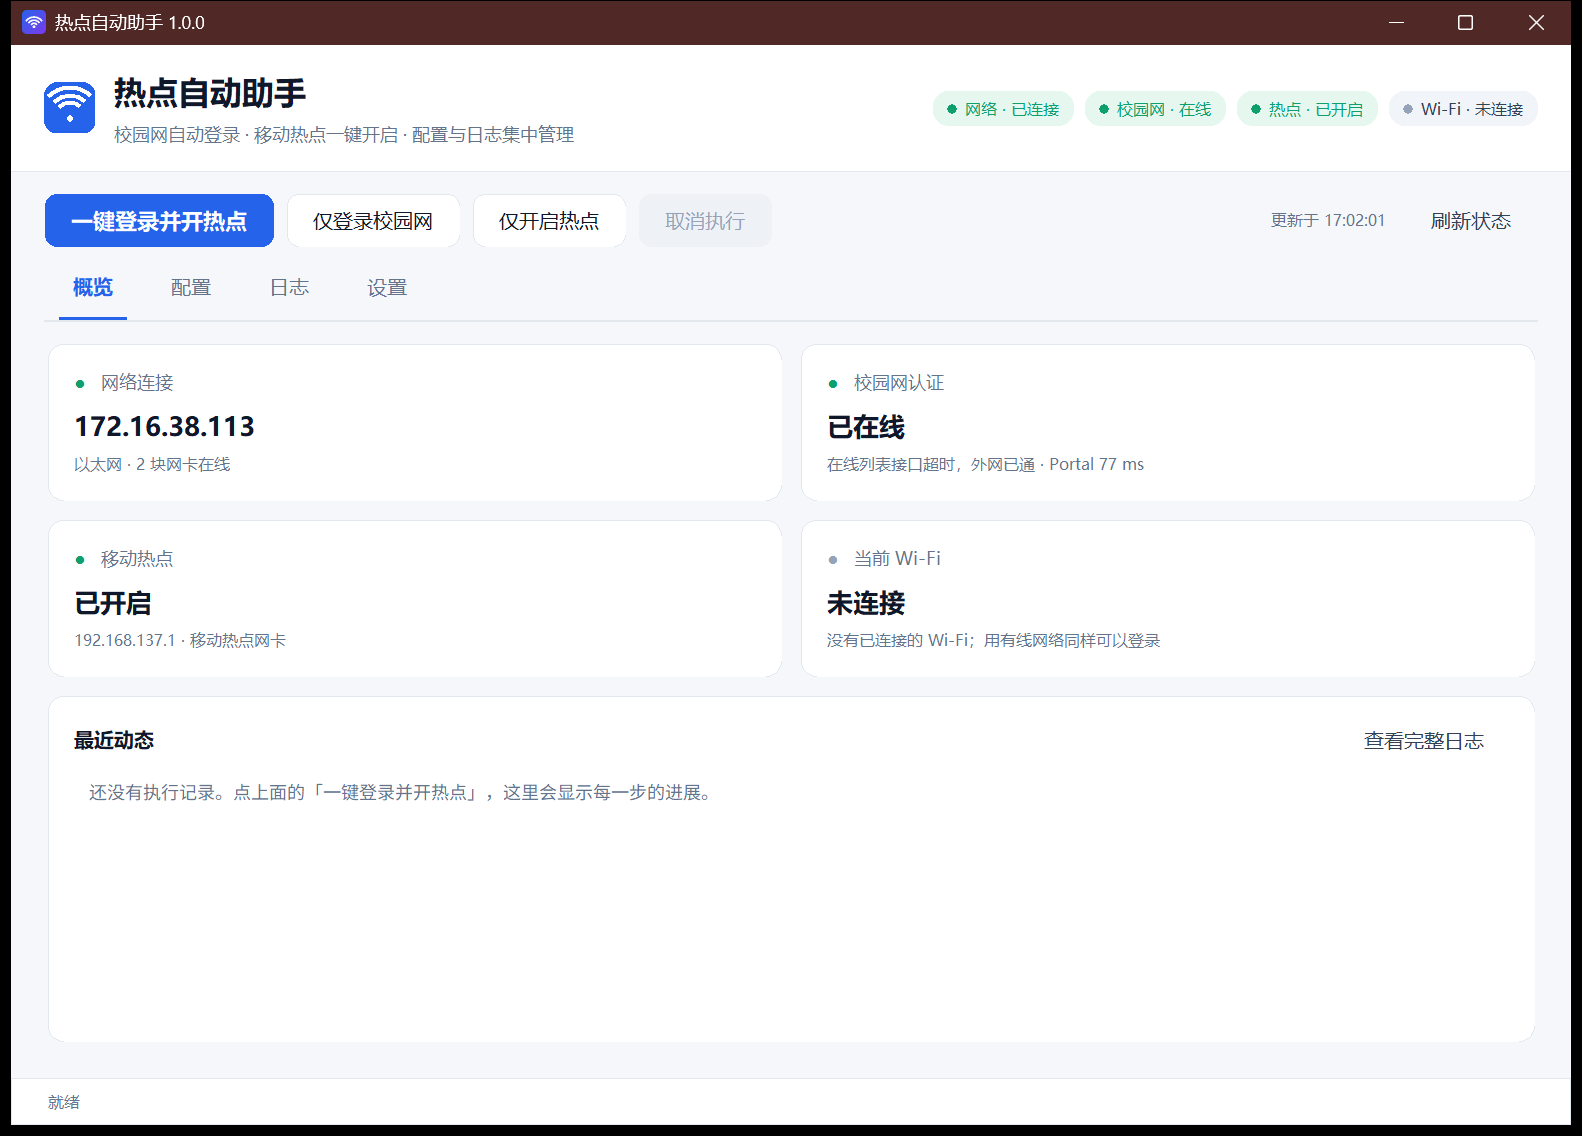
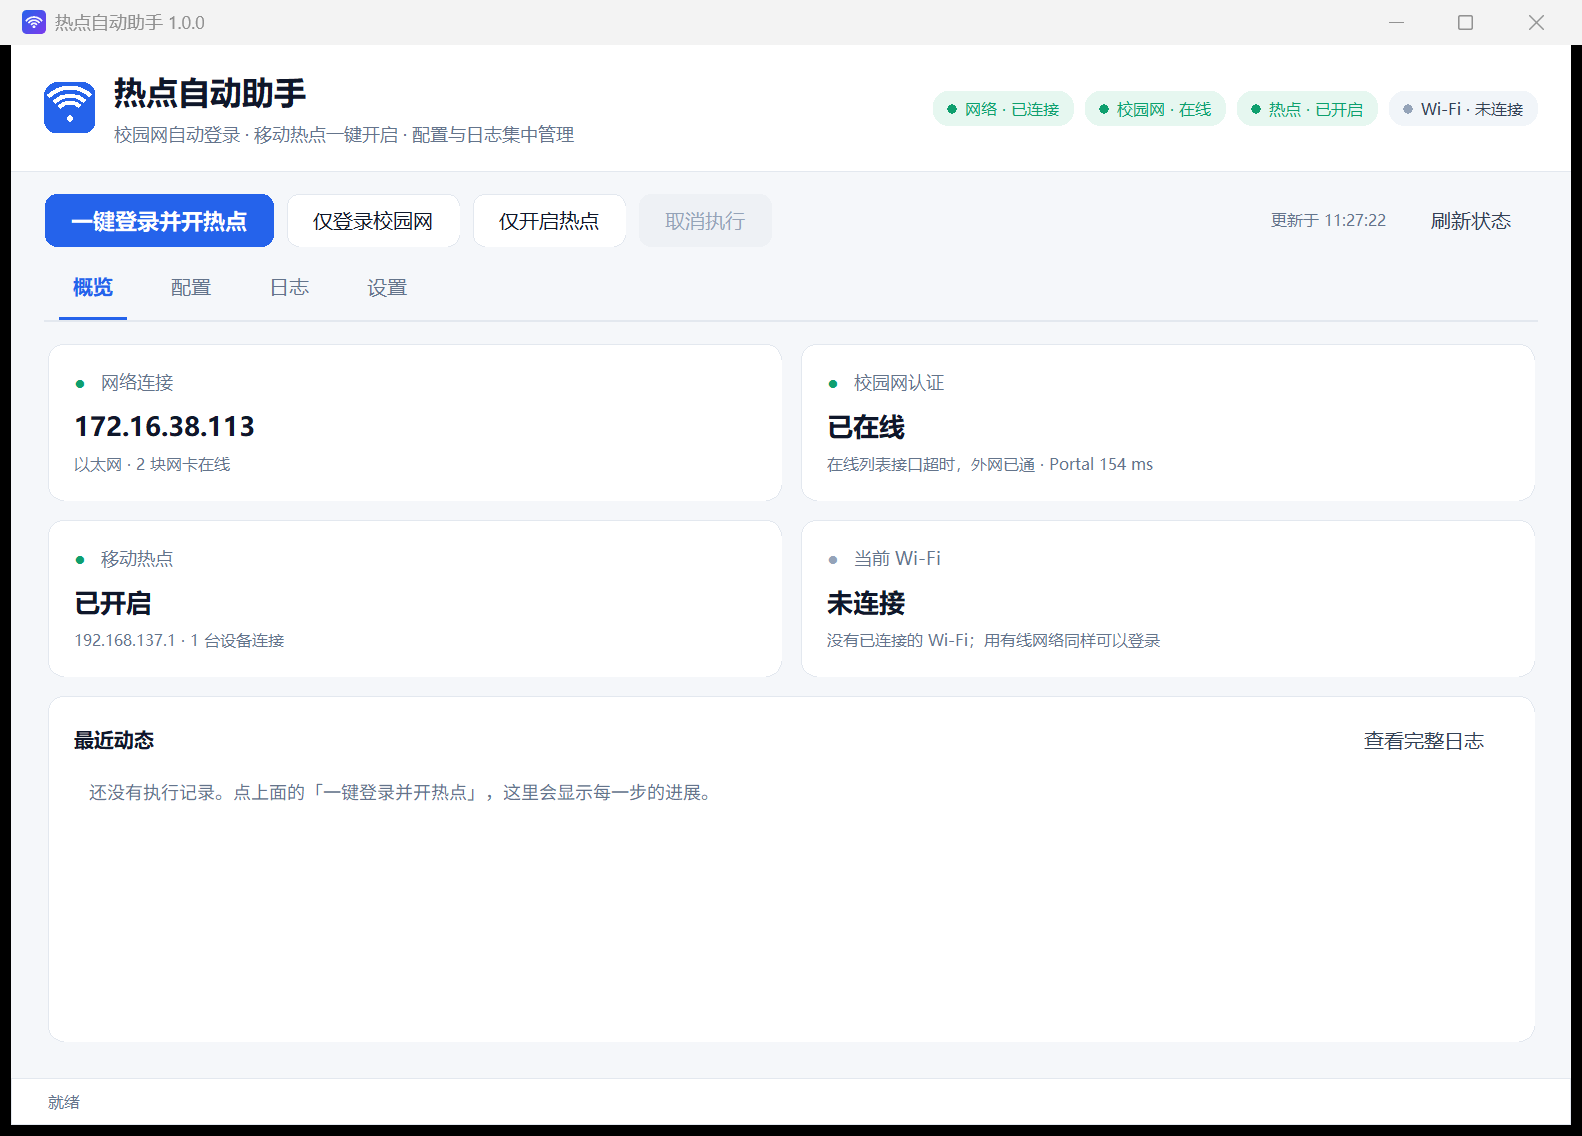
feat: 热点状态改为双信号检测并显示连接设备数
- probe: 新增 WinRT TetheringOperationalState / ClientCount 查询（15 秒缓存，切换中 2 秒）
- probe: 有 192.168.137.x 但系统说关闭时强制重问一次，避免刚开热点误判
- actions: 开启热点成功后失效缓存，下一次探测立刻拿到真实状态
- app: 热点卡片显示设备数 / 正在切换 / WinRT 报告已关闭，开关瞬间写最近动态
- README: 补「移动热点是怎么判断的」

diff --git a/desktop/core/probe.py b/desktop/core/probe.py
@@ -218,8 +218,8 @@ def local_info() -> dict:
     return {"ip": ip, "adapter": adapter["name"], "mac": adapter["mac"], "up_adapters": up_adapters}
 
 
-def hotspot_state() -> dict:
-    """热点是否开启：找 192.168.137.x 的本机地址（ICS 默认网段）。"""
+def _hotspot_ip() -> tuple[str, str]:
+    """192.168.137.x 上的本机地址（ICS 默认网段）。"""
     for adapter in list_adapters():
         if not adapter["up"]:
             continue
@@ -232,8 +232,111 @@ def hotspot_state() -> dict:
                 name = adapter["name"]
                 if "Wi-Fi Direct" in (adapter["desc"] or ""):
                     name = "移动热点网卡"
-                return {"on": True, "ip": ip, "adapter": name}
-    return {"on": False, "ip": "", "adapter": ""}
+                return ip, name
+    return "", ""
+
+
+_TETHER_QUERY = r"""
+$ErrorActionPreference = 'Stop'
+try {
+  $null = [Windows.Networking.NetworkOperators.NetworkOperatorTetheringManager,Windows.Networking.NetworkOperators,ContentType=WindowsRuntime]
+  $null = [Windows.Networking.Connectivity.NetworkInformation,Windows.Networking.Connectivity,ContentType=WindowsRuntime]
+  $profile = [Windows.Networking.Connectivity.NetworkInformation]::GetInternetConnectionProfile()
+  if ($null -eq $profile) {
+    '{"state":"NoProfile","clients":0}'
+  } else {
+    $manager = [Windows.Networking.NetworkOperators.NetworkOperatorTetheringManager]::CreateFromConnectionProfile($profile)
+    '{"state":"' + $manager.TetheringOperationalState + '","clients":' + $manager.ClientCount + '}'
+  }
+} catch {
+  '{"state":"Error","clients":0}'
+}
+"""
+
+_TETHER_TTL = 15.0
+_TETHER_BUSY_TTL = 2.0
+_tether_cache: dict = {"at": 0.0, "state": "", "clients": 0, "ttl": _TETHER_TTL}
+
+
+def _tether_info(timeout: float = 10.0, force: bool = False) -> dict:
+    """问 WinRT：热点开没开、几台设备连着（15 秒缓存，切换中只缓存 2 秒）。"""
+    now = time.monotonic()
+    if not force and _tether_cache["at"] and now - _tether_cache["at"] < float(
+        _tether_cache.get("ttl") or _TETHER_TTL
+    ):
+        return dict(_tether_cache)
+
+    import base64
+    import subprocess
+
+    encoded = base64.b64encode(_TETHER_QUERY.encode("utf-16-le")).decode("ascii")
+    try:
+        proc = subprocess.run(
+            [
+                "powershell.exe",
+                "-NoProfile",
+                "-NonInteractive",
+                "-ExecutionPolicy",
+                "Bypass",
+                "-EncodedCommand",
+                encoded,
+            ],
+            capture_output=True,
+            timeout=timeout,
+            creationflags=getattr(subprocess, "CREATE_NO_WINDOW", 0),
+        )
+    except Exception:
+        return {"at": 0.0, "state": "", "clients": 0}
+
+    text = _decode_console(proc.stdout or b"") + "\n" + _decode_console(proc.stderr or b"")
+    for line in reversed(text.splitlines()):
+        line = line.strip()
+        if not line.startswith("{"):
+            continue
+        try:
+            data = json.loads(line)
+        except ValueError:
+            continue
+        state = str(data.get("state") or "")
+        _tether_cache.update(
+            at=time.monotonic(),
+            state=state,
+            clients=int(data.get("clients") or 0),
+            ttl=_TETHER_BUSY_TTL if state == "InTransition" else _TETHER_TTL,
+        )
+        return dict(_tether_cache)
+    return {"at": 0.0, "state": "", "clients": 0, "ttl": _TETHER_TTL}
+
+
+def hotspot_state(use_winrt: bool = True) -> dict:
+    """热点是否开启：192.168.137.x 有没有本机地址，再用 WinRT 交叉确认。"""
+    ip, adapter = _hotspot_ip()
+    info = _tether_info() if use_winrt else {"state": "", "clients": 0}
+    state = str(info.get("state") or "")
+    # 有 IP 但 WinRT 说关着，多半是缓存放早了（刚开启），强制重问一次
+    if use_winrt and ip and state in ("Off", "InTransition", ""):
+        info = _tether_info(force=True)
+        state = str(info.get("state") or "")
+    clients = int(info.get("clients") or 0)
+    on = bool(ip) or state == "On"
+    if ip:
+        source = "ip"
+    elif state == "On":
+        source = "winrt"
+    elif state == "Off":
+        source = "winrt-off"
+    elif state == "InTransition":
+        source = "winrt-busy"
+    else:
+        source = ""
+    return {
+        "on": on,
+        "ip": ip,
+        "adapter": adapter,
+        "source": source,
+        "state": state,
+        "clients": clients,
+    }
 
 
 # --------------------------------------------------------------------- SSID
@@ -439,6 +542,7 @@ def wifi_ssid() -> str:
 def reset_caches() -> None:
     """系统睡眠唤醒、切换网卡之后调用：丢掉缓存，下一次重新读一遍。"""
     _ssid_cache.update(at=0.0, value="")
+    _tether_cache.update(at=0.0, state="", clients=0)
 
 
 def _decode_console(raw: bytes) -> str:

diff --git a/desktop/app.py b/desktop/app.py
@@ -369,6 +369,8 @@ class App:
         # 校园 Portal 的在线列表接口会间歇性不回包，这里缓存最近一次查到的结果，
         # 查询超时时继续显示它（并标注是多久前的结果），避免卡片来回跳。
         self._online_known: dict | None = None
+        # 上一次的热点开关状态，用来在日志里记录"开了/关了"的变化
+        self._last_hotspot_on: bool | None = None
         self._stop = threading.Event()
         self._wake = threading.Event()
         self._busy = False
@@ -1779,10 +1781,32 @@ class App:
         portal_hint = f"Portal {portal.get('ms')} ms" if portal.get("ok") else "Portal 不可达"
         self._set_card("online", online_value, f"{online_hint} · {portal_hint}", online_color)
 
-        if hotspot.get("on"):
-            self._set_card("hotspot", "已开启", f"{hotspot.get('ip') or ''} · {hotspot.get('adapter') or ''}".strip(" ·"), OK)
+        hotspot_on = bool(hotspot.get("on"))
+        clients = int(hotspot.get("clients") or 0)
+        if hotspot_on:
+            ip_now = str(hotspot.get("ip") or "")
+            if ip_now:
+                hint = f"{ip_now} · " + (f"{clients} 台设备连接" if clients else "暂无设备连接")
+            else:
+                hint = "WinRT 报告已开启，还没分到 IP"
+            self._set_card("hotspot", "已开启", hint, OK)
         else:
-            self._set_card("hotspot", "未开启", "192.168.137.0/24 上没有本机地址", IDLE)
+            state = str(hotspot.get("state") or "")
+            if state == "Off":
+                hint = "WinRT 报告已关闭"
+            elif state == "InTransition":
+                hint = "正在开启或关闭中…"
+            else:
+                hint = "192.168.137.0/24 上没有本机地址"
+            self._set_card("hotspot", "未开启", hint, WARN if state == "InTransition" else IDLE)
+
+        if self._last_hotspot_on is not None and hotspot_on != self._last_hotspot_on:
+            if hotspot_on:
+                extra = f"（{clients} 台设备连接）" if clients else ""
+                self._append_log(f"检测到移动热点已开启{extra}", "ok")
+            else:
+                self._append_log("检测到移动热点已关闭", "warn")
+        self._last_hotspot_on = hotspot_on
 
         if ssid:
             self._set_card("ssid", ssid, "当前已连接的无线网络", OK)

diff --git a/desktop/core/actions.py b/desktop/core/actions.py
@@ -371,6 +371,8 @@ def enable_hotspot(ctx, timeout: int = 120) -> bool:
         return False
 
     log(result.get("message") or "移动热点已开启。")
+    # 刚开启时缓存里可能还写着 Off，丢掉让下一次探测重新问 WinRT
+    probe.reset_caches()
     # 等 192.168.137.x 真的出现，避免“命令成功了但网卡还没起来”
     deadline = time.time() + _HOTSPOT_WAIT
     while time.time() < deadline:

diff --git a/README.md b/README.md
@@ -118,6 +118,19 @@ python -m PyInstaller --noconfirm --clean --onedir  --windowed --optimize 2 --na
 窗口高度小于内容时，配置页和设置页会出现一条细滚动条（也可以直接滚轮），
 按钮不会被挤出可视区。
 
+### 移动热点是怎么判断的
+
+不只看 `192.168.137.x` 有没有本机地址，还会直接问系统的热点接口（WinRT
+`NetworkOperatorTetheringManager`）：
+
+- 有地址、系统也说开着 → 显示「已开启 / 192.168.137.1 · 2 台设备连接」；
+- 系统说开着但还没分到地址 → 「WinRT 报告已开启，还没分到 IP」；
+- 系统说关着 → 「未开启 / WinRT 报告已关闭」；
+- 正在开/关 → 「正在开启或关闭中…」，一两秒后会自己刷新成最终状态。
+
+热点开/关的瞬间会往「最近动态」里写一行，方便回顾是什么时候断开的。
+设备数是系统统计的已连接客户端数量，0 台时显示「暂无设备连接」。
+
 界面没有一个第三方 UI 库：圆角卡片、圆角按钮、状态药丸、细滚动条都是 `desktop\ui.py`
 里用 Canvas 画的（十几个控件而已），好处是 DPI 100%/150% 下不走样、打包产物也不会变大多少。
 配色走的是「浅灰底 + 白卡片 + 一个蓝色主色」，正常/警告/错误三种状态分别用绿/琥珀/红，
